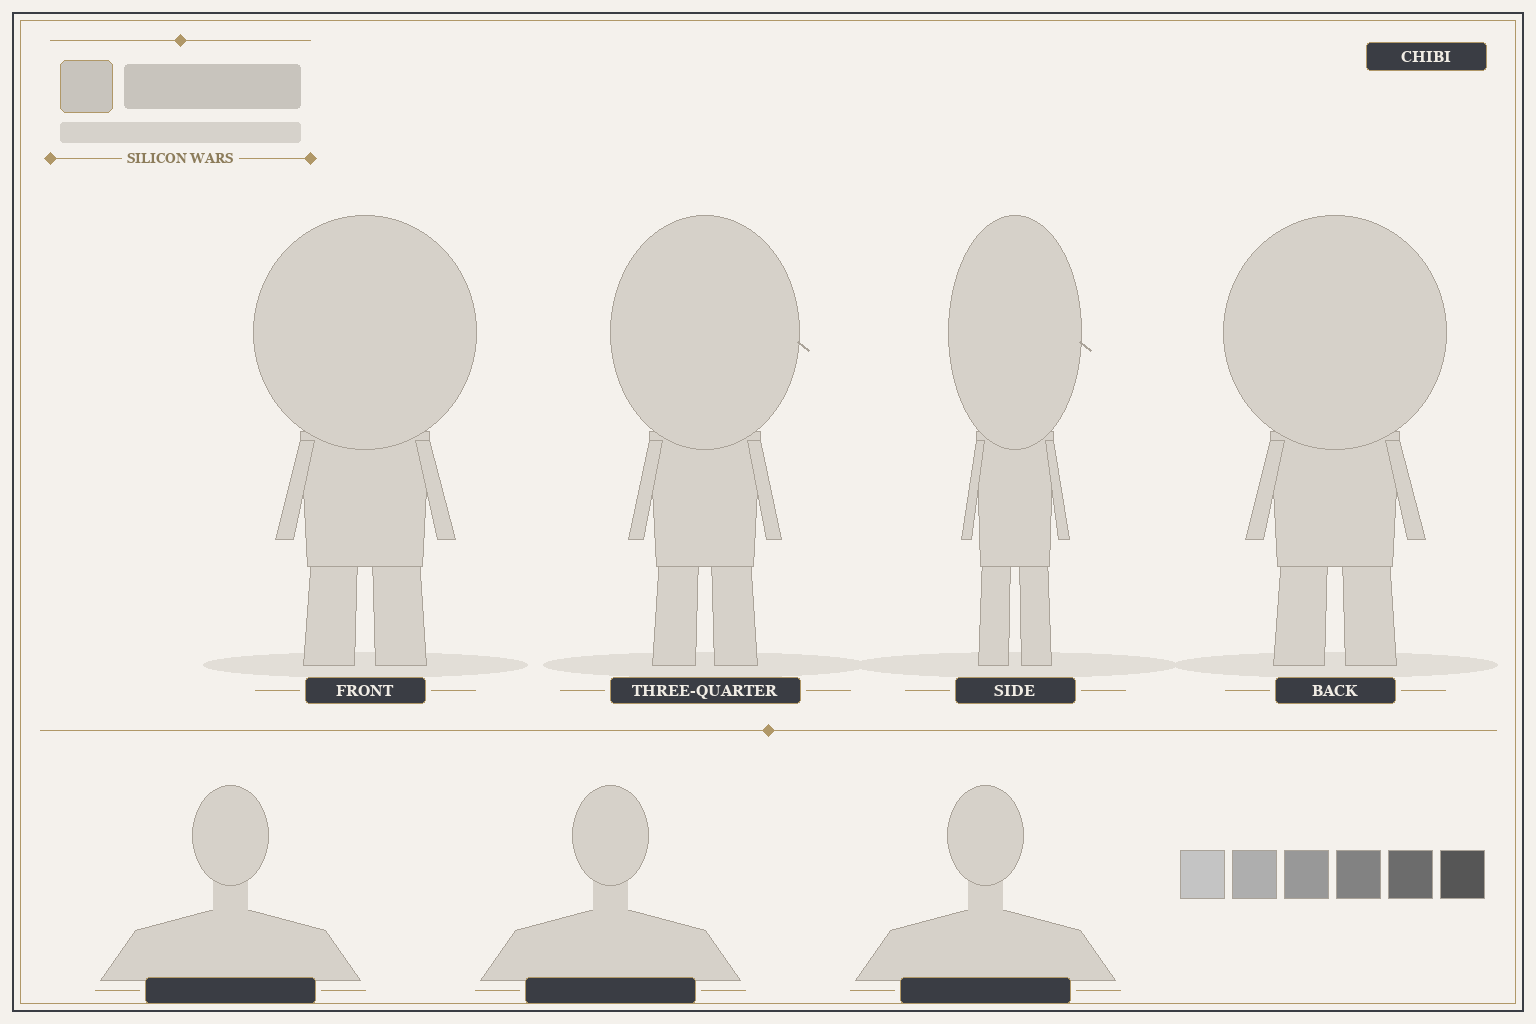
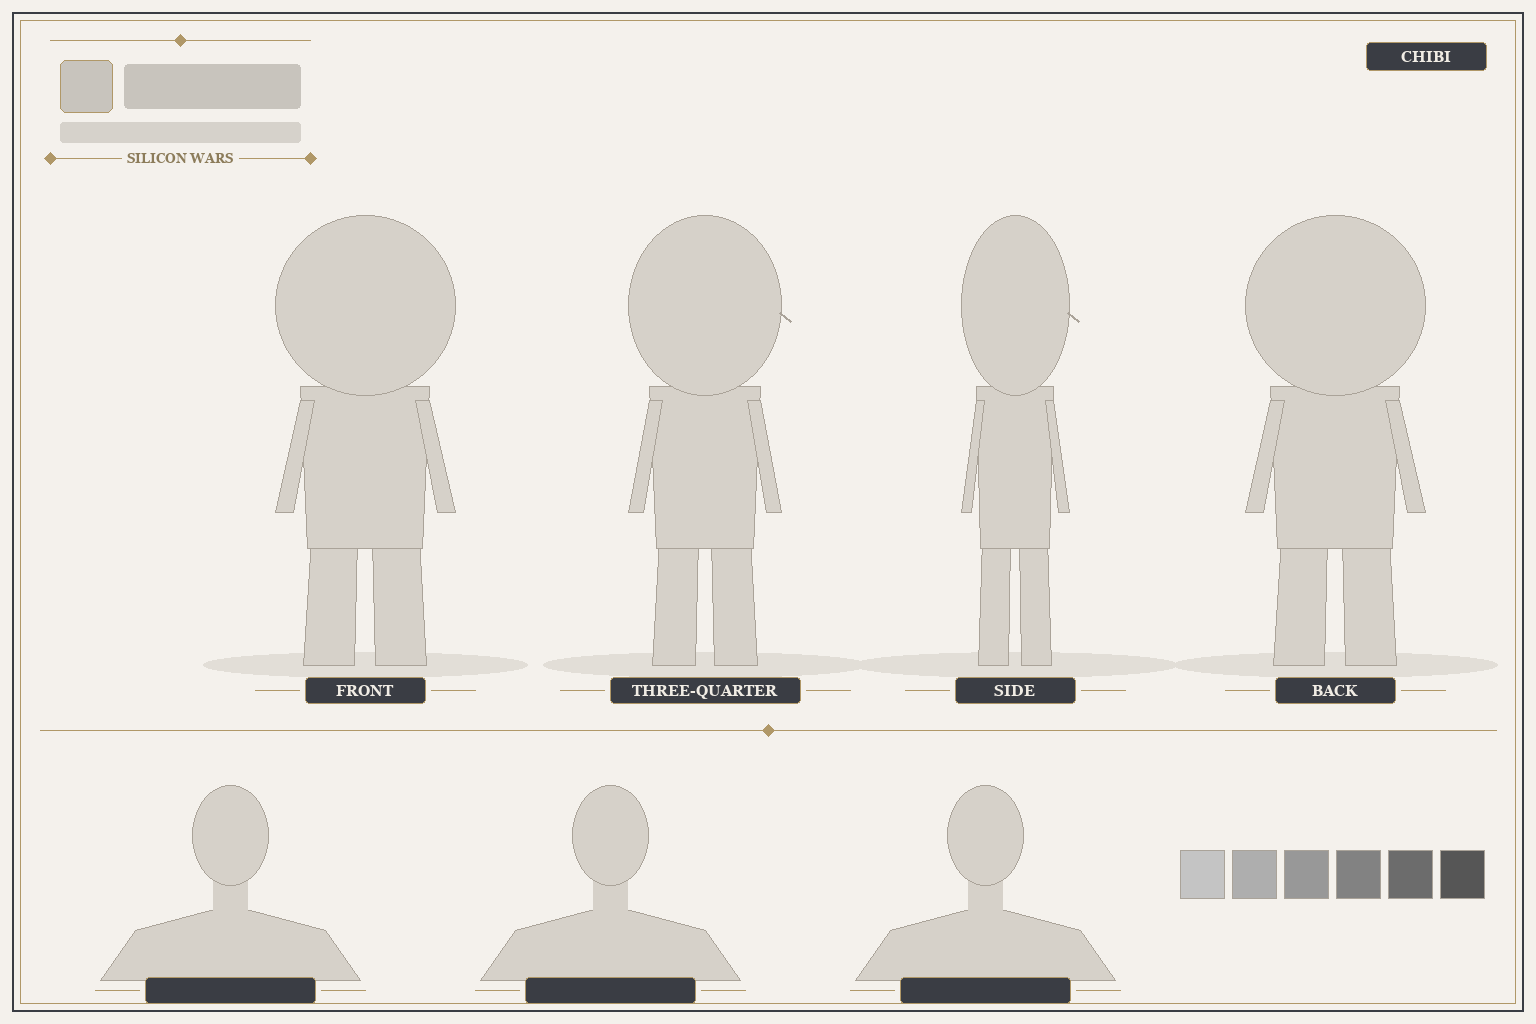
Align chibi template with the 2.5-head proportion

diff --git a/tools/make_character_template_layouts.py b/tools/make_character_template_layouts.py
@@ -29,6 +29,7 @@ SHEET = (1536, 1024)
 CARD = (1024, 1536)
 EXPR_PLAQUE_W = 200  # locked expression label plaque width (cell is 332 wide)
 HEADS = 7.5  # target figure height in head-heights, from the Microsoft proportion pass
+CHIBI_HEADS = 2.5
 
 
 def font(size: int) -> ImageFont.FreeTypeFont:
@@ -218,8 +219,8 @@ def expression_sheet() -> Image.Image:
 
 
 def chibi_figure(d: ImageDraw.ImageDraw, cx: float, top: float, height: float, view: str) -> None:
-    """Chibi mannequin: big head, short body, about 2.5 head-heights tall."""
-    u = height / 2.5
+    """Chibi mannequin with one head height from crown to chin."""
+    u = height / CHIBI_HEADS
     sx = {"front": 1.0, "back": 1.0, "three-quarter": 0.85, "side": 0.6}[view]
     base = top + height
     d.ellipse([cx - 0.9 * u, base - 0.07 * u, cx + 0.9 * u, base + 0.07 * u], fill=SHADOW)
@@ -227,15 +228,16 @@ def chibi_figure(d: ImageDraw.ImageDraw, cx: float, top: float, height: float, v
     def poly(pts):
         d.polygon([(cx + x * u * sx, top + y * u) for x, y in pts], fill=FIG_FILL, outline=FIG_LINE)
 
-    poly([(-0.3, 1.9), (-0.04, 1.9), (-0.06, 2.5), (-0.34, 2.5)])
-    poly([(0.04, 1.9), (0.3, 1.9), (0.34, 2.5), (0.06, 2.5)])
-    poly([(-0.36, 1.2), (0.36, 1.2), (0.32, 1.95), (-0.32, 1.95)])
-    poly([(-0.36, 1.25), (-0.28, 1.25), (-0.4, 1.8), (-0.5, 1.8)])
-    poly([(0.28, 1.25), (0.36, 1.25), (0.5, 1.8), (0.4, 1.8)])
-    d.ellipse([cx - 0.62 * u * sx, top, cx + 0.62 * u * sx, top + 1.3 * u], fill=FIG_FILL, outline=FIG_LINE)
+    poly([(-0.3, 1.8), (-0.04, 1.8), (-0.06, CHIBI_HEADS), (-0.34, CHIBI_HEADS)])
+    poly([(0.04, 1.8), (0.3, 1.8), (0.34, CHIBI_HEADS), (0.06, CHIBI_HEADS)])
+    poly([(-0.36, 0.95), (0.36, 0.95), (0.32, 1.85), (-0.32, 1.85)])
+    poly([(-0.36, 1.03), (-0.28, 1.03), (-0.4, 1.65), (-0.5, 1.65)])
+    poly([(0.28, 1.03), (0.36, 1.03), (0.5, 1.65), (0.4, 1.65)])
+    head_half_width = 0.5 * u * sx
+    d.ellipse([cx - head_half_width, top, cx + head_half_width, top + u], fill=FIG_FILL, outline=FIG_LINE)
     if view in ("three-quarter", "side"):
-        nx = cx + 0.62 * u * sx
-        d.line([nx - 2, top + 0.7 * u, nx + 0.05 * u, top + 0.75 * u], fill=FIG_LINE, width=2)
+        nx = cx + head_half_width
+        d.line([nx - 2, top + 0.54 * u, nx + 0.05 * u, top + 0.59 * u], fill=FIG_LINE, width=2)
 
 
 def chibi_sheet() -> Image.Image:

diff --git a/characters/_template/README.md b/characters/_template/README.md
@@ -28,7 +28,7 @@ Templates for a character's written profile and for the three design assets each
 | ![Chibi sheet layout](layout/chibi_sheet_layout.png) [chibi_sheet_layout.png](layout/chibi_sheet_layout.png) | 1536 x 1024 (draw 1920 x 1280 sheets from it) | Model-sheet chrome with chibi proportions and the CHIBI tag |
 | ![Reference card layout](layout/reference_card_layout.png) [reference_card_layout.png](layout/reference_card_layout.png) | 1024 x 1536 | The locked card chrome. [reference_card_chrome.svg](layout/reference_card_chrome.svg) is the frame and nameplate alone, without a mannequin |
 
-The guides use gray mannequins drawn at about 7.5 head-heights, empty nameplates, and neutral charcoal and gold trim. They pass on structure without another character's face, costume, or palette. Fixed labels (view names and the 12 expressions) are printed; labels that vary per character are left as blank plaques for the prompt to fill. To change a guide, edit [tools/make_character_template_layouts.py](../../tools/make_character_template_layouts.py) and run `py tools/make_character_template_layouts.py` rather than editing the PNGs.
+The guides use gray mannequins, empty nameplates, and neutral charcoal and gold trim. The regular sheet mannequins are 7.5 heads tall and the chibi mannequins are 2.5 heads tall. They pass on structure without another character's face, costume, or palette. Fixed labels (view names and the 12 expressions) are printed; labels that vary per character are left as blank plaques for the prompt to fill. To change a guide, edit [tools/make_character_template_layouts.py](../../tools/make_character_template_layouts.py) and run `py tools/make_character_template_layouts.py` rather than editing the PNGs.
 
 Always pass the blank guide as Image 2. The border, background, nameplate and logo rules for every sheet type are locked in the chrome blocks of the prompt templates. Intel's finished sheets are no longer a valid Image 2, because they bring Intel's look along with them.
 
@@ -64,7 +64,7 @@ When the design source is a painted card that has already been approved, as with
    - Front-only items are absent from the back view.
    - Hair, headwear, and footwear are inside the frame.
    - Proportions match between the turnarounds and the card.
-   - Sheets (model, expression, chibi): the title lockup is the same on all three (company logo, company name, canonical title, "SILICON WARS"; the name is dropped when the logo already spells it), and background, frame, label plaques and palette strip match the locked sheet chrome, size is 1920 x 1280, all 12 expression label boxes match the locked box (same size, charcoal plaque, cream serif caps, on the cell's top edge), there is no logo outside the costume and props, and the chibi sheet has exactly one "CHIBI" tag.
+   - Sheets (model, expression, chibi): the title lockup is the same on all three (company logo, company name, canonical title, "SILICON WARS"; the name is dropped when the logo already spells it), and background, frame, label plaques and palette strip match the locked sheet chrome, size is 1920 x 1280, all 12 expression label boxes match the locked box (same size, charcoal plaque, cream serif caps, on the cell's top edge), there is no logo outside the costume and props, and the chibi sheet has exactly one "CHIBI" tag. In each chibi turnaround, the head from crown to chin takes up 40% of crown-to-sole height. Measure without hair or headwear above the crown.
    - Reference cards only: the border and nameplate match the [locked chrome](layout/reference_card_chrome.svg) (gold outer frame with inner hairline, charcoal hex nameplate, two serif lines), with no logo outside the costume and props and no tagline, banner or profile panel. Compare against two or three existing cards at thumbnail size, using a contact sheet.
 5. Update the character's README asset links and the artwork line in [INDEX.md](../INDEX.md).
 6. Open a PR from a branch, with before/after images.

diff --git a/characters/_template/prompts/chibi_sheet.prompt.md b/characters/_template/prompts/chibi_sheet.prompt.md
@@ -15,7 +15,7 @@ Style rules come from `bible/art_style.yaml` (`chibi`) and the `style_variants.c
 
 ---
 
-Create a polished landscape 3:2 anime CHIBI character sheet for {{NAME_UPPER}}, {{TITLE_UPPER}}, {{AGE_PHRASE}} in Silicon Wars, in the chibi style variant. Image 1 is her approved model sheet and the strict identity and costume blueprint. Image 2 is a layout guide ONLY: follow its arrangement, but do not draw its gray mannequins, placeholder bars or empty plaques. Preserve her identity: {{IDENTITY_LIST}}. Render her as a super-deformed chibi: large head, tiny body, head-to-body ratio about 1:2.5, short simplified limbs, small rounded hands and feet, reduced costume segmentation that keeps every major motif, clean rounded manga linework, minimal shading, large simplified eyes. {{VIEW_NOTES}} Put four complete standing chibi turnarounds in a row: FRONT, THREE-QUARTER, SIDE, BACK, all at the same scale and baseline, feet and {{TOPMOST_FEATURE}} fully in frame. {{FRONT_POSE}} Below them, three chibi head-and-shoulders close-ups of the same face: {{EXPR_1}}, {{EXPR_2}}, and {{EXPR_3}}, plus a small palette strip in {{PALETTE}}. {{CHIBI_CHROME_BLOCK}} Use only the text "{{NAME_UPPER}}" (omitted when the logo already spells it), "{{TITLE_UPPER}}", "SILICON WARS", "CHIBI", "FRONT", "THREE-QUARTER", "SIDE", "BACK", "{{EXPR_1}}", "{{EXPR_2}}", and "{{EXPR_3}}". Keep the sheet free of other characters and scenery.
+Create a polished landscape 3:2 anime CHIBI character sheet for {{NAME_UPPER}}, {{TITLE_UPPER}}, {{AGE_PHRASE}} in Silicon Wars, in the chibi style variant. Image 1 is her approved model sheet and the strict identity and costume blueprint. Image 2 is a layout guide ONLY: follow its arrangement, but do not draw its gray mannequins, placeholder bars or empty plaques. Preserve her identity: {{IDENTITY_LIST}}. Render her as a super-deformed chibi at exactly 2.5 anatomical head heights in each standing view. Measure crown to chin as 40% of crown-to-sole height, ignoring hair and headwear above the crown. Keep short simplified limbs, small rounded hands and feet, reduced costume segmentation that keeps every major motif, clean rounded manga linework, minimal shading, large simplified eyes. {{VIEW_NOTES}} Put four complete standing chibi turnarounds in a row: FRONT, THREE-QUARTER, SIDE, BACK, all at the same scale and baseline, feet and {{TOPMOST_FEATURE}} fully in frame. {{FRONT_POSE}} Below them, three chibi head-and-shoulders close-ups of the same face: {{EXPR_1}}, {{EXPR_2}}, and {{EXPR_3}}, plus a small palette strip in {{PALETTE}}. {{CHIBI_CHROME_BLOCK}} Use only the text "{{NAME_UPPER}}" (omitted when the logo already spells it), "{{TITLE_UPPER}}", "SILICON WARS", "CHIBI", "FRONT", "THREE-QUARTER", "SIDE", "BACK", "{{EXPR_1}}", "{{EXPR_2}}", and "{{EXPR_3}}". Keep the sheet free of other characters and scenery.
 
 ---
 
@@ -37,5 +37,5 @@ Same as the model sheet, plus:
 ## Known failure modes
 
 - The tag moves or is repeated. Keep the locked wording, and check there is exactly one "CHIBI".
-- Realistic proportions creep back. Restate "1:2.5" and "avoid realistic anatomy".
+- Check the front and side silhouettes against the guide. The anatomical head occupies 40% of standing height across the cast.
 - Costume motifs get dropped in the simplification. List them in `{{IDENTITY_LIST}}`.
